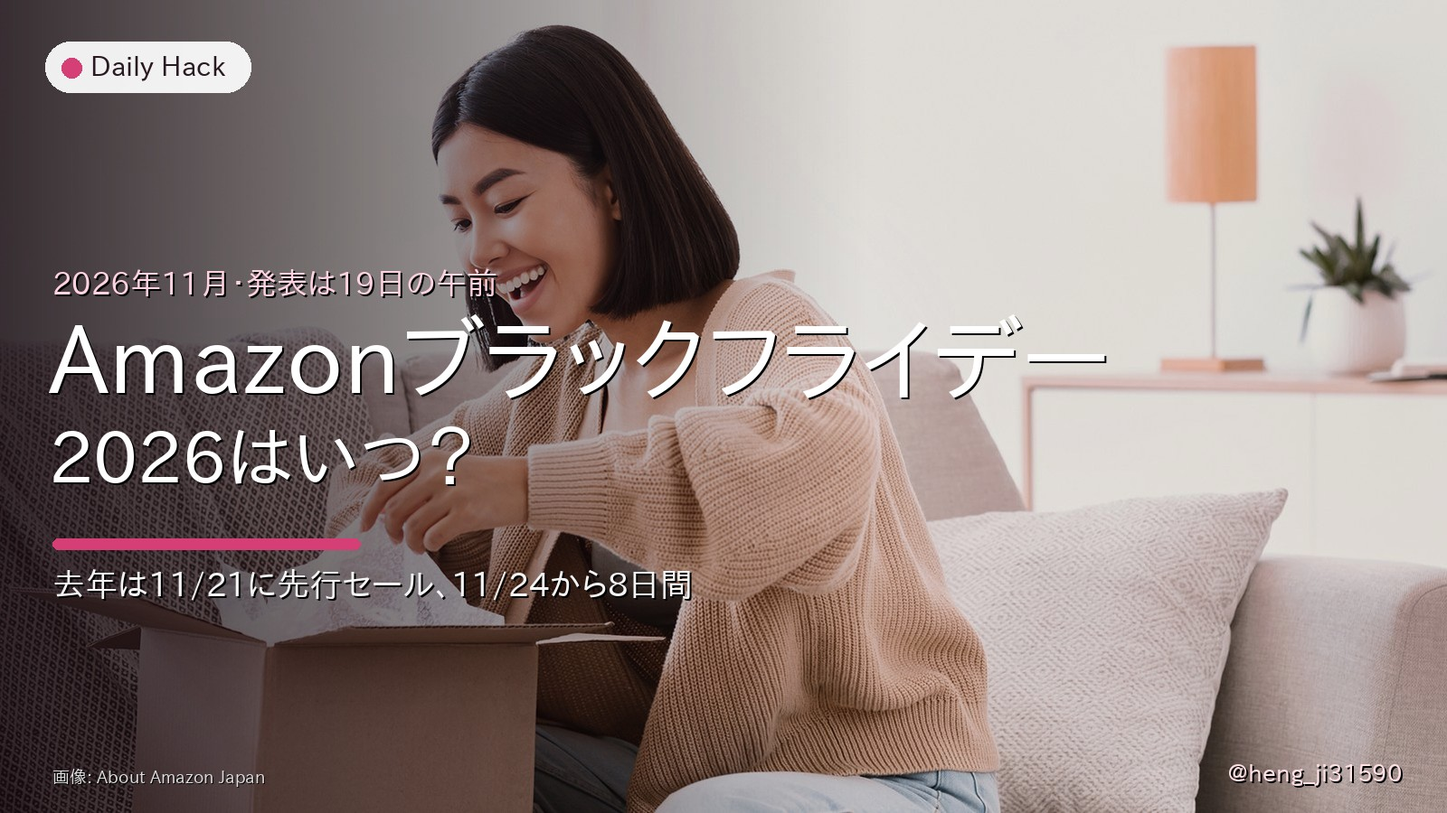
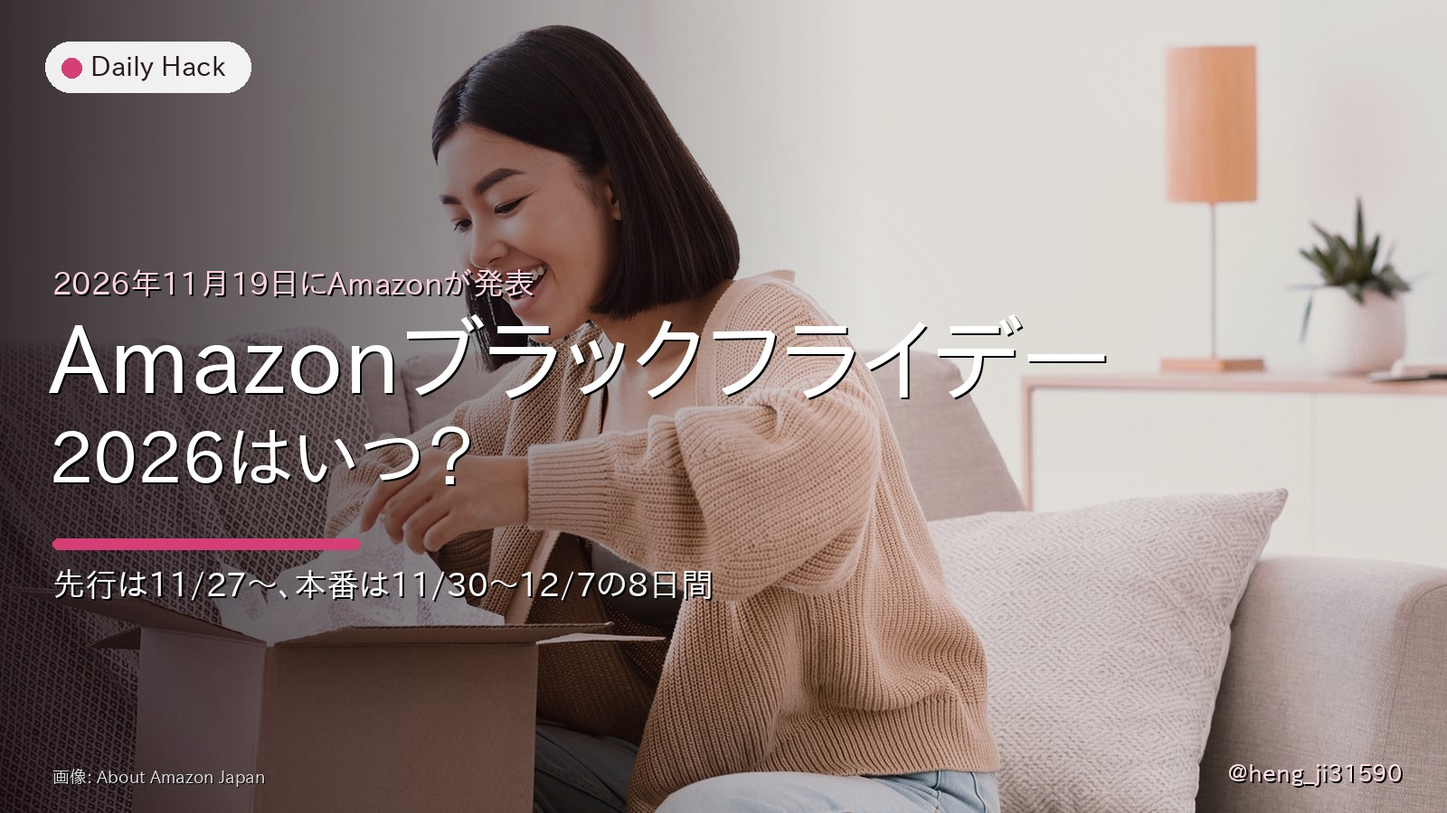
記事: Amazonブラックフライデー2026の日程（先行11/27〜・本番11/30〜12/7）を2本に入れる
- amazon-blackfriday-2026-itsu: 11/19の公式発表で日程・ポイントアップ（上限1万ポイント）・ほかの企画を書き、セール・エントリー・ポイントDeal祭りなどへのリンク（tag=dailyhack-22・PR）を置いた。表紙も作り直した
- black-friday-2026-matome: 一覧・Amazonの節・FAQ・表紙を更新。Yahoo!ショッピングは11/22〜29
- 依頼表（affiliate → blog3 成果リンク）を完了に

Claude-Session: https://claude.ai/code/session_01RqPaqffepEWsiAkvhJEvmW

Changed region(s): [[0.1562, 0.6844, 0.5, 0.7467], [0.1562, 0.3111, 0.375, 0.3733], [0.0312, 0.6844, 0.0938, 0.7467]]

diff --git a/src/content/posts/amazon-blackfriday-2026-itsu.md b/src/content/posts/amazon-blackfriday-2026-itsu.md
@@ -1,64 +1,66 @@
 ---
-title: "Amazonブラックフライデー2026はいつ？｜開催は11月、日程の発表は11月19日（木）午前。去年は11/21に先行セール、11/24から8日間"
-description: "Amazonは2026年もブラックフライデーを11月に開くと発表した。開催期間とセールの中身は11月19日（木）の午前中に公開予定。去年（2025年）は詳細の発表が11/14、先行セールが11/21〜23、本番が11/24〜12/1の8日間だった。いまからできる準備も公式の3ステップでまとめた。"
+title: "Amazonブラックフライデー2026はいつ？｜先行セール11/27（金）から、本番は11/30（月）〜12/7（月）の8日間。ポイントアップの上限は1万ポイント"
+description: "Amazonが2026年11月19日に発表したブラックフライデーの日程と中身を公式でまとめた。先行セールは11/27〜29、本番は11/30〜12/7の8日間。ポイントアップは11/19 10時からエントリー、合計1万円以上で上限1万ポイント。去年との違いも並べた。"
 publishDate: 2026-11-12
+updatedDate: 2026-11-19
 category: ["campaigns", "howto"]
 tags: ["Amazon", "ブラックフライデー", "セール", "2026年"]
 isPR: true
 draft: false
 eyecatchUrl: "/images/amazon-blackfriday-2026-itsu/eyecatch.jpg"
-eyecatchAlt: "Amazonブラックフライデー2026はいつ？発表は11月19日の午前。去年は11/21に先行セール、11/24から8日間"
+eyecatchAlt: "Amazonブラックフライデー2026はいつ？先行は11/27から、本番は11/30〜12/7の8日間"
 author: "hacker-ko"
 references:
   - "https://www.aboutamazon.jp/news/retail/amazon-black-friday-2026"
+  - "https://www.amazon.co.jp/events/pointupcampaign/"
   - "https://www.aboutamazon.jp/news/retail/3-steps-for-amazon-black-friday-2026"
   - "https://www.aboutamazon.jp/news/retail/amazon-black-friday-2025"
 ---
 
-「Amazonのブラックフライデー、今年はいつから？」「先行セールってあるの？」——いま一番検索されているのに、**公式が何を発表していて、何がまだ決まっていないのか**を分けて書いたものが見つからない。
+「Amazonのブラックフライデー、今年はいつから？」「先行セールはあるの？ポイントアップのエントリーはもうできる？」——日程が出たばかりの今、**公式の発表そのままの日付と条件**を1か所で確かめられるページが少ない。
 
-だからアタシがまとめた。土台は**Amazonの公式ニュース**（About Amazon Japan）の2026年の発表と、去年（2025年）の発表よ。
+だからアタシがまとめた。土台は**Amazonの公式ニュース（About Amazon Japan）の2026年11月19日の発表**と、Amazon.co.jpのポイントアップキャンペーンのページよ。
 
-<p class="source-note">2026年11月12日に、About Amazon Japan の「<a href="https://www.aboutamazon.jp/news/retail/amazon-black-friday-2026" target="_blank" rel="noopener">Amazon、2026年「Amazon ブラックフライデー」を開催</a>」（2026年11月5日公開）と「<a href="https://www.aboutamazon.jp/news/retail/amazon-black-friday-2025" target="_blank" rel="noopener">2025年の発表</a>」を読んで書いた。2026年の日程は発表されしだい書き足す。</p>
+<p class="source-note">この記事の日程と条件は、2026年11月19日に About Amazon Japan の「<a href="https://www.aboutamazon.jp/news/retail/amazon-black-friday-2026" target="_blank" rel="noopener">Amazon、「Amazon ブラックフライデー」11月30日（月）0時から12月7日（月）23時59分までの8日間開催</a>」（2026年11月5日公開・11月19日更新）と、Amazon.co.jpの<a href="https://www.amazon.co.jp/events/pointupcampaign/?tag=dailyhack-22" target="_blank" rel="sponsored noopener nofollow">ポイントアップキャンペーンのページ</a>（PR）で確かめたもの。</p>
 
 <div class="hakkako-says">
-  <div class="hakkako-quote">先に一番大事なことを言っとく。<strong>2026年の日程はまだ出ていない</strong>。Amazonは<strong>11月19日（木）の午前中</strong>に開催期間とセールの中身を出すと言っているわ。日付を言い切っているサイトは、去年からの予想よ。</div>
+  <div class="hakkako-quote">先に一番大事なことを言っとく。<strong>先行セールは2026年11月27日（金）0時から、本番は11月30日（月）0時〜12月7日（月）23:59の8日間</strong>。それと、<strong>ポイントアップのエントリーはもう11月19日（木）10時から始まっている</strong>わ。押すだけだから、今のうちに済ませておきなさい。</div>
 </div>
 
 ## 30秒で分かる、Amazonブラックフライデー2026
 
 <div class="event-picks">
-  <a class="event-pick" href="#2026年に決まっていること発表は11月19日木の午前" style="--pick-img:url('/images/amazon-blackfriday-2026-itsu/photos/kv2026.jpg')">
-    <span class="pick-date">2026年</span>
-    <h4>発表は11/19午前</h4>
-    <p>11月に開催。<strong>日程はまだ</strong>。</p>
-    <span class="pick-go">詳しく見る →</span>
-  </a>
-  <a class="event-pick" href="#去年2025年の日程先行セール3日本番8日間" style="--pick-img:url('/images/amazon-blackfriday-2026-itsu/photos/box.jpg')">
-    <span class="pick-date">去年</span>
+  <a class="event-pick" href="#2026年の日程先行セールは11月27日金から本番は11月30日月12月7日月の8日間" style="--pick-img:url('/images/amazon-blackfriday-2026-itsu/photos/kv2026.jpg')">
+    <span class="pick-date">2026年の日程</span>
     <h4>先行3日＋本番8日</h4>
-    <p>2025年は<strong>11/21〜12/1</strong>。</p>
+    <p>先行<strong>11/27〜29</strong>、本番<strong>11/30〜12/7</strong>。</p>
     <span class="pick-go">詳しく見る →</span>
   </a>
-  <a class="event-pick" href="#去年のポイントアップ1万円以上で最大3など" style="--pick-img:url('/images/amazon-blackfriday-2026-itsu/photos/kv2026.jpg')">
+  <a class="event-pick" href="#ポイントアップキャンペーンエントリーは11月19日木10時から上限10000ポイント" style="--pick-img:url('/images/amazon-blackfriday-2026-itsu/photos/box.jpg')">
     <span class="pick-date">ポイント</span>
-    <h4>エントリーが要る</h4>
-    <p>去年は<strong>1万円以上</strong>の買い物が条件。</p>
+    <h4>上限1万ポイント</h4>
+    <p>エントリーして<strong>合計1万円以上</strong>買うと上乗せ。</p>
+    <span class="pick-go">詳しく見る →</span>
+  </a>
+  <a class="event-pick" href="#ほかのキャンペーンポイントdeal祭りdポイントふるさと納税beauty-box" style="--pick-img:url('/images/amazon-blackfriday-2026-itsu/photos/kv2026.jpg')">
+    <span class="pick-date">ほかの企画</span>
+    <h4>ポイントDeal祭りなど</h4>
+    <p>5%以上のポイントが付く商品に<strong>バッジ</strong>。</p>
     <span class="pick-go">詳しく見る →</span>
   </a>
 </div>
 <span class="event-picks-credit">カード画像：About Amazon Japan（Amazonの公式ニュース）より。</span>
 
-## 2026年に決まっていること｜発表は11月19日（木）の午前
+## 2026年の日程｜先行セールは11月27日（金）から、本番は11月30日（月）〜12月7日（月）の8日間
 
 <div class="table-scroll">
 <table class="prose-table">
-  <thead><tr><th>項目</th><th>2026年11月12日時点</th></tr></thead>
+  <thead><tr><th>出来事</th><th>2026年の日にち</th></tr></thead>
   <tbody>
-    <tr><td>開催するか</td><td><strong>する</strong>。11月に開催<span class="cell-sub"><a href="https://www.aboutamazon.jp/news/retail/amazon-black-friday-2026" target="_blank" rel="noopener">2026年11月5日の公式発表</a></span></td></tr>
-    <tr><td>開催期間</td><td><strong>未発表</strong><span class="cell-sub">11月19日（木）の午前中に公開予定</span></td></tr>
-    <tr><td>セールの中身</td><td><strong>未発表</strong><span class="cell-sub">同じく11月19日（木）の午前中に公開予定</span></td></tr>
-    <tr><td>先行セール</td><td><strong>未発表</strong><span class="cell-sub">去年はあった（下の表）</span></td></tr>
+    <tr><td>発表とエントリー開始</td><td><strong>2026年11月19日（木）</strong><span class="cell-sub">ポイントアップのエントリーはこの日の10:00から</span></td></tr>
+    <tr><td><a href="https://www.amazon.co.jp/blackfriday?tag=dailyhack-22" target="_blank" rel="sponsored noopener nofollow">先行セール</a>（PR）</td><td><strong>2026年11月27日（金）0:00〜11月29日（日）23:59</strong>の3日間</td></tr>
+    <tr><td><a href="https://www.amazon.co.jp/blackfriday?tag=dailyhack-22" target="_blank" rel="sponsored noopener nofollow">本番</a>（PR）</td><td><strong>2026年11月30日（月）0:00〜12月7日（月）23:59</strong>の8日間</td></tr>
+    <tr><td><a href="https://www.amazon.co.jp/events/pointupcampaign/?tag=dailyhack-22" target="_blank" rel="sponsored noopener nofollow">ポイントアップ</a>（PR）の対象の買い物</td><td><strong>2026年11月27日（金）0:00〜12月7日（月）23:59</strong><span class="cell-sub">先行セールの買い物も入る</span></td></tr>
   </tbody>
 </table>
 </div>
@@ -68,24 +70,42 @@ references:
   <figcaption>2026年のAmazonブラックフライデーの告知画像。<cite>画像：<a href="https://www.aboutamazon.jp/news/retail/amazon-black-friday-2026" target="_blank" rel="noopener">About Amazon Japan</a></cite></figcaption>
 </figure>
 
-公式の発表は「日用品や食品、家電、人気ブランドのアイテム、ギフトになるものまで特別価格で」という書き方で、**値段や割引率はまだ何も出ていない**わ。
+Amazonは今年のブラックフライデーを「年内最後のビッグセール」と呼んでいて、**食品・日用品から家電、人気ブランド、ギフトになる物まで特別価格で出す**と発表した。先行セールと本番を合わせると、**2026年11月27日から12月7日までの11日間**、どこかでセールをやっていることになるわ。
 
-## 去年（2025年）の日程｜先行セール3日、本番8日間
+セールの会場は<a href="https://www.amazon.co.jp/blackfriday?tag=dailyhack-22" target="_blank" rel="sponsored noopener nofollow">Amazonブラックフライデーの特設ページ</a>（PR）にまとまる。
+
+<p class="source-note">出典：<a href="https://www.aboutamazon.jp/news/retail/amazon-black-friday-2026" target="_blank" rel="noopener">About Amazon Japan「Amazon ブラックフライデー」2026年の発表</a>（2026年11月19日更新）。</p>
+
+## ポイントアップキャンペーン｜エントリーは11月19日（木）10時から、上限10,000ポイント
+
+ブラックフライデーで一番効くのは、**エントリーして期間中に合計10,000円（税込）以上買うと、Amazonポイントが上乗せされる**「ポイントアップキャンペーン」。上乗せの率は、プライム会員か、何で払ったか、何を買ったかで変わる。
 
 <div class="table-scroll">
 <table class="prose-table">
-  <thead><tr><th>出来事</th><th>2025年の日にち</th></tr></thead>
+  <thead><tr><th>項目</th><th>2026年の条件</th></tr></thead>
   <tbody>
-    <tr><td>詳細の発表</td><td><strong>11月14日（金）</strong><span class="cell-sub">ポイントアップのエントリーもこの日の10:30から</span></td></tr>
-    <tr><td>先行セール</td><td><strong>11月21日（金）0:00〜11月23日（日）23:59</strong>の3日間</td></tr>
-    <tr><td>本番</td><td><strong>11月24日（月・振替休日）0:00〜12月1日（月）23:59</strong>の8日間</td></tr>
+    <tr><td>エントリー</td><td><strong>2026年11月19日（木）10:00〜12月7日（月）23:59</strong><span class="cell-sub">ボタンを押すだけ。押さないと上乗せは付かない</span></td></tr>
+    <tr><td>対象の買い物</td><td><strong>2026年11月27日（金）0:00〜12月7日（月）23:59</strong>に、<strong>合計10,000円（税込）以上</strong></td></tr>
+    <tr><td>上乗せの上限</td><td><strong>10,000ポイント</strong><span class="cell-sub">期間限定ポイントで、有効期限は2027年2月28日</span></td></tr>
+    <tr><td>率が上がる条件</td><td><strong>プライム会員</strong>、<strong>Amazon Mastercardで払う</strong>、<strong>対象カテゴリー・ブランドセレクションの商品を買う</strong></td></tr>
+    <tr><td>最大の率</td><td><strong>対象商品で最大11%</strong><span class="cell-sub">プライム会員・Amazon Mastercard払い・対象商品をそろえたときの表示（諸条件あり）</span></td></tr>
+    <tr><td>大抽選会</td><td><strong>最大100,000ポイント</strong>が当たる<span class="cell-sub">エントリーして合計10,000円以上買った人が全員対象。追加のエントリーは要らない</span></td></tr>
+    <tr><td>付く時期</td><td>セールが終わってから<strong>40日間ほど</strong></td></tr>
+    <tr><td>対象外</td><td>Apple製品など一部の商品</td></tr>
   </tbody>
 </table>
 </div>
 
-<p class="source-note">出典：<a href="https://www.aboutamazon.jp/news/retail/amazon-black-friday-2025" target="_blank" rel="noopener">About Amazon Japan「Amazon ブラックフライデー」2025年の発表</a>（2025年11月14日公開・11月18日更新）。</p>
+<ul class="checklist">
+  <li><div class="checklist-body"><strong>エントリーは今日からできる。</strong><p>先行セールが始まる2026年11月27日（金）より前に押しておけば、先行セールの買い物から数えてもらえる</p></div></li>
+  <li><div class="checklist-body"><strong>合計10,000円（税込）以上が条件。</strong><p>1つ5,000円の物なら2つで届く</p></div></li>
+  <li><div class="checklist-body"><strong>上乗せの上限は10,000ポイント。</strong><p>それより多く買っても、上乗せは増えない</p></div></li>
+  <li><div class="checklist-body"><strong>上乗せは期間限定ポイント。</strong><p>使えるのは2027年2月28日まで</p></div></li>
+</ul>
 
-去年は**詳細の発表から7日後に先行セールが始まった**。今年の発表は去年より5日遅い11月19日だけど、同じ並びになるかはAmazonの発表を待つしかないわ。
+エントリーは<a href="https://www.amazon.co.jp/events/pointupcampaign/?tag=dailyhack-22" target="_blank" rel="sponsored noopener nofollow">Amazonのポイントアップキャンペーンのページ</a>（PR）から。細かい条件は同じページの細則で確かめて。
+
+<p class="source-note">出典：<a href="https://www.aboutamazon.jp/news/retail/amazon-black-friday-2026" target="_blank" rel="noopener">About Amazon Japan「Amazon ブラックフライデー」2026年の発表</a>、Amazon.co.jp「ポイントアップキャンペーン＆大抽選会」とブラックフライデーの特設ページ（いずれも2026年11月19日に確認）。</p>
 
 <aside class="related-block">
   <div class="related-block-head">
@@ -102,32 +122,43 @@ references:
   </ul>
 </aside>
 
-## 去年のポイントアップ｜1万円以上で、最大+3%など
+## ほかのキャンペーン｜ポイントDeal祭り・dポイント・ふるさと納税・Beauty Box
 
-去年のセールで一番効いたのは、**エントリーして合計10,000円（税込）以上買うと、Amazonポイントが上乗せされる**「ポイントアップキャンペーン」。今年の条件はまだ出ていないので、去年の中身を並べておくわね。
+ポイントアップのほかに、Amazonは期間中のキャンペーンを6つ出している。**目玉の商品を探すなら、まずポイントDeal祭り**。資生堂・Anker・BEAMS・Onなどの人気ブランドの商品に、5%以上のポイントが付く。
 
 <div class="table-scroll">
 <table class="prose-table">
-  <thead><tr><th>条件（2025年）</th><th>上乗せ</th></tr></thead>
+  <thead><tr><th>キャンペーン</th><th>中身（2026年）</th></tr></thead>
   <tbody>
-    <tr><td>プライム会員</td><td><strong>+1.5%</strong></td></tr>
-    <tr><td>Amazon Mastercard で払う</td><td><strong>最大+3%</strong><span class="cell-sub">通常の還元を含む</span></td></tr>
-    <tr><td>おもちゃを買う</td><td><strong>+6.5%</strong></td></tr>
-    <tr><td>ブランドセレクションを買う</td><td><strong>+4%</strong><span class="cell-sub">注目ブランドはさらに+1%で合計+5%</span></td></tr>
+    <tr><td><a href="https://www.amazon.co.jp/PointsDeal?tag=dailyhack-22" target="_blank" rel="sponsored noopener nofollow">ポイントDeal祭り</a>（PR）</td><td><strong>5%以上のポイントが付く商品</strong>に「ポイントDeal」のバッジ<span class="cell-sub">2026年11月27日（金）〜12月7日（月）。資生堂・Anker・BEAMS・Onなど</span></td></tr>
+    <tr><td><a href="https://www.amazon.co.jp/b/?node=222846665051&tag=dailyhack-22" target="_blank" rel="sponsored noopener nofollow">dポイント連携キャンペーン</a>（PR）</td><td><strong>総額5,000万ポイントの山分け</strong><span class="cell-sub">Amazonとdアカウントを連携し、エントリーしてdポイントを累計200ポイント以上使う。初めて連携する人は初回の買い物の20%（上限1,000ポイント）</span></td></tr>
+    <tr><td><a href="https://www.amazon.co.jp/fmc/furusato/special/furusatomatsuri_week?tag=dailyhack-22" target="_blank" rel="sponsored noopener nofollow">Amazonふるさと納税の抽選</a>（PR）</td><td><strong>最大10,000ポイントが当たる</strong><span class="cell-sub">2026年11月19日（木）〜12月7日（月）。ページを見るだけで参加。プライム会員は当たる確率が4倍</span></td></tr>
+    <tr><td><a href="https://www.amazon.co.jp/b?node=23701550051&tag=dailyhack-22" target="_blank" rel="sponsored noopener nofollow">Amazon Beauty Collection Box</a>（PR）</td><td><strong>コスメのセット4種類・合計5,000個の数量限定</strong><span class="cell-sub">2026年11月30日（月）〜12月3日（木）の毎日12時に1種類ずつ発売。1人各1点まで</span></td></tr>
+    <tr><td>Amazon Now</td><td><strong>プライム会員は配送料290円と小口注文手数料220円が0円</strong><span class="cell-sub">2026年11月27日（金）6時〜12月7日（月）23:45。エリア限定の約30分配送</span></td></tr>
+    <tr><td>Amazonネットスーパー</td><td><strong>対象商品が表示価格から最大50%OFF</strong><span class="cell-sub">2026年11月27日（金）〜12月7日（月）。エリア限定</span></td></tr>
   </tbody>
 </table>
 </div>
 
-<div class="checklist">
+<p class="source-note">出典：<a href="https://www.aboutamazon.jp/news/retail/amazon-black-friday-2026" target="_blank" rel="noopener">About Amazon Japan「Amazon ブラックフライデー」2026年の発表</a>（2026年11月19日に確認）。</p>
 
-- **エントリーしないと付かない**。去年はセールの前（11月14日）からエントリーできた
-- **合計10,000円（税込）以上**が条件。1つ5,000円の物なら2つで届く
-- 上乗せは**期間限定ポイント**。使える期限がある
-- ほかにスタンプラリー（最大50,000ポイントが当たる抽選）と、dポイントのスタンプラリーもあった
+## 去年（2025年）との違い｜発表は5日遅く、日程も6日うしろ
 
+<div class="table-scroll">
+<table class="prose-table">
+  <thead><tr><th>出来事</th><th>2025年 → 2026年</th></tr></thead>
+  <tbody>
+    <tr><td>詳細の発表</td><td>2025年11月14日（金） → <strong>2026年11月19日（木）</strong></td></tr>
+    <tr><td>先行セール</td><td>2025年11月21日（金）〜23日（日） → <strong>2026年11月27日（金）〜29日（日）</strong><span class="cell-sub">どちらも3日間</span></td></tr>
+    <tr><td>本番</td><td>2025年11月24日（月・振替休日）〜12月1日（月） → <strong>2026年11月30日（月）〜12月7日（月）</strong><span class="cell-sub">どちらも8日間</span></td></tr>
+    <tr><td>ポイントアップの条件</td><td>どちらも<strong>エントリーして合計10,000円（税込）以上</strong></td></tr>
+  </tbody>
+</table>
 </div>
 
-<p class="source-note">2025年の条件。2026年は11月19日の発表で変わる可能性がある。細かい条件はAmazon.co.jpのキャンペーンの細則で確かめて。</p>
+<p class="source-note">出典：<a href="https://www.aboutamazon.jp/news/retail/amazon-black-friday-2025" target="_blank" rel="noopener">About Amazon Japan「Amazon ブラックフライデー」2025年の発表</a>（2025年11月14日公開・11月18日更新）、2026年の発表（2026年11月19日更新）。</p>
+
+先行3日＋本番8日の並びは去年と同じ。**全体が6日うしろにずれて、本番の終わりが12月にかかった**わ。先行セールの初日から数えると、ポイントアップの対象の買い物は11日間ある。
 
 ## いまからできる準備｜Amazonが出している3ステップ
 
@@ -136,14 +167,14 @@ references:
   <figcaption><cite>画像：<a href="https://www.aboutamazon.jp/news/retail/3-steps-for-amazon-black-friday-2026" target="_blank" rel="noopener">About Amazon Japan</a></cite></figcaption>
 </figure>
 
-Amazonは2026年11月12日に、ブラックフライデーの前にやっておくことを3つ出した。日程が出る前でも、全部いまからできるわ。
+Amazonは2026年11月12日に、ブラックフライデーの前にやっておくことを3つ出した。先行セールの11月27日（金）までに、全部済ませられるわ。
 
 <div class="table-scroll">
 <table class="prose-table">
   <thead><tr><th>ステップ</th><th>やること</th></tr></thead>
   <tbody>
     <tr><td>1. 買う予定を立てる</td><td><strong>日用品のまとめ買い・自分へのご褒美・ギフトで予算を分ける</strong><span class="cell-sub">プライム会員はお急ぎ便・お届け日時指定便が追加料金なし</span></td></tr>
-    <tr><td>2. <a href="https://www.amazon.co.jp/hz/wishlist/ls?tag=dailyhack-22" target="_blank" rel="sponsored noopener nofollow">ほしい物リスト</a>に入れる</td><td><strong>セールが始まったらリストから値段をすぐ見られる</strong><span class="cell-sub">家族とリストを共有すれば、相手が本当に欲しい物が分かる</span></td></tr>
+    <tr><td>2. <a href="https://www.amazon.co.jp/hz/wishlist/ls?tag=dailyhack-22" target="_blank" rel="sponsored noopener nofollow">ほしい物リスト</a>（PR）に入れる</td><td><strong>セールが始まったらリストから値段をすぐ見られる</strong><span class="cell-sub">家族とリストを共有すれば、相手が本当に欲しい物が分かる</span></td></tr>
     <tr><td>3. 受け取る日と場所を決める</td><td><strong>お届け日時指定便、コンビニなどの受取スポット、Amazonロッカー</strong><span class="cell-sub">ギフトを家族に知られずに受け取りたいときにも使える</span></td></tr>
   </tbody>
 </table>
@@ -151,18 +182,18 @@ Amazonは2026年11月12日に、ブラックフライデーの前にやってお
 
 <p class="source-note">出典：<a href="https://www.aboutamazon.jp/news/retail/3-steps-for-amazon-black-friday-2026" target="_blank" rel="noopener">About Amazon Japan「Amazonブラックフライデーをもっと楽しむための3ステップ」</a>（2026年11月12日公開）。</p>
 
-アタシから足すなら、**ほしい物リストに入れるのは今日の値段を覚えてから**。セールの日に「本当に下がったのか」を比べられるのはリストに入れた人だけよ。セールのページは<a href="https://www.amazon.co.jp/blackfriday?tag=dailyhack-22" target="_blank" rel="sponsored noopener nofollow">Amazonブラックフライデーの特設ページ</a>にまとまる。
+アタシから足すなら、**ほしい物リストに入れるのは今日の値段を覚えてから**。セールの日に「本当に下がったのか」を比べられるのはリストに入れた人だけよ。それと、**ポイントアップのエントリーを押してから**リスト作りに入りなさい。
 
 <aside class="related-block">
   <div class="related-block-head">
-    <p class="related-block-title">楽天の買い回りの仕組みなら</p>
+    <p class="related-block-title">楽天・Yahoo!・イオンのブラックフライデーもまとめて見るなら</p>
   </div>
   <ul class="related-block-list">
-    <li><a href="/posts/rakuten-marathon-guide-2026/">
-      <span class="related-block-thumb"><img src="/images/rakuten-marathon-guide-2026/eyecatch.jpg" alt="" loading="lazy" /></span>
+    <li><a href="/posts/black-friday-2026-matome/">
+      <span class="related-block-thumb"><img src="/images/black-friday-2026-matome/eyecatch.jpg" alt="" loading="lazy" /></span>
       <span class="related-block-body">
-        <span class="related-block-cat">攻略</span>
-        <span class="related-block-name">楽天お買い物マラソン 完全攻略【2026年最新】｜買い回り上限・SPU・5と0の日</span>
+        <span class="related-block-cat">まとめ</span>
+        <span class="related-block-name">ブラックフライデー2026まとめ｜33件の日程を公式ページで確認。楽天は11/19 20時、Amazonは11/27先行・11/30〜12/7、当日は11/27（金）</span>
       </span>
     </a></li>
   </ul>
@@ -172,16 +203,16 @@ Amazonは2026年11月12日に、ブラックフライデーの前にやってお
 
 ### Amazonブラックフライデー2026はいつから？
 
-2026年11月12日時点では未発表。Amazonは11月に開催すると発表していて、開催期間は**11月19日（木）の午前中**に公開する予定。
+先行セールが**2026年11月27日（金）0:00〜11月29日（日）23:59**、本番が**11月30日（月）0:00〜12月7日（月）23:59の8日間**。Amazonが2026年11月19日に発表した。
 
 ### 先行セールはある？
 
-2026年はまだ分からない。去年（2025年）は本番の前に、11月21日（金）〜23日（日）の3日間の先行セールがあった。
+ある。2026年11月27日（金）から29日（日）までの3日間。ポイントアップキャンペーンの対象の買い物も、先行セールの初日から数えられる。
 
 ### ポイントアップにはエントリーが要る？
 
-去年はエントリーが必要で、合計10,000円（税込）以上の買い物が条件だった。今年の条件は11月19日の発表で確かめて。
+要る。エントリーは2026年11月19日（木）10:00〜12月7日（月）23:59。期間中に合計10,000円（税込）以上買うと上乗せが付き、上限は10,000ポイント（期間限定ポイント）。
 
 ### いまのうちにやることは？
 
-ほしい物を「ほしい物リスト」に入れて、今日の値段を覚えておくこと。Amazonも、予算を分ける・リストに入れる・受け取る日と場所を決める、の3つを勧めている。
+ポイントアップのエントリーを押して、ほしい物を「ほしい物リスト」に入れ、今日の値段を覚えておくこと。Amazonも、予算を分ける・リストに入れる・受け取る日と場所を決める、の3つを勧めている。

diff --git a/docs/cross-session-requests.md b/docs/cross-session-requests.md
@@ -28,7 +28,7 @@
 | 2026-11-16 | blog3 → affiliate | **A8 の提携中の一覧が、まだ全件読めていない（予約で届けた）。** `ops/heartbeat` の `reports/board/asp-probe/a8partnered.json`（2026-11-16 06:44 JST の Mac の読み取り）は `total: 396, from: 0, to: 396` なのに `rows` が 260 件しか無い（id の重なりは無し）。前日（11/15 の分）も 396 件中 180 件で、作戦室の `snapshot/a8` は 180 件のまま入っていた。PR #1655 の「1 割以上減ったら上書きしない」は、`to` と `total` が 396 のままなので効いていない。`rows.length` と `total` を比べて足りなければ読み直す（または上書きしない）ように直してほしい。作戦室は 11/16 は 260 件（180 件より多いので）を入れ、更新履歴 2026-11-16-weekly に「失敗」として書いた。手順 6-B（審査中 25 件の照合）は 260 件とだけ照合できた（提携中になったものは無し） | 完了 | affiliate 2026-11-16: 原因は、11/14 に 100 件の結果で上書きしたときに控え（名前・報酬）が失われ、詳細を 1 日 80 件ずつ開き直していたこと。① 11/13 の 394 件を控えとして戻す（ops/tasks/t699）② 読んだ案件は消えない控え `a8partnered-cache.json` に足していく ③ rows が前の回より少なく total の 9 割に届かないときは上書きしない、rows が足りない日は `missing` に件数を書く（`scripts/asp/asp-probe.mjs`・PR #1781）。翌朝の読み取りで 396 件そろう見込み |
 | 2026-11-15 | affiliate → tweet2 | **Mac の Chrome for Testing のプロファイルが会社の Google アカウントに変わった（予約で届けた）。** 2026-11-15 20:30 ごろ、利用者が個人の gmail のプロファイルの窓をすべて閉じ、会社のアカウント（fieldbeside.com）のプロファイルだけを残した。利用者の指示は「X のテストなども n-yokota@fieldbeside.com のプロファイルで作業を進めて」。CDP の新しいタブは会社のプロファイル側で開く（affiliate の t694 で AdSense が読めた）。tweet2: ① 会社のプロファイルで x.com にログインできているかを読む ② できていなければ利用者に X のログインを頼む（ダイアログ） ③ tab-guard・ensure-chrome が止めていないか | 未対応 | |
 | 2026-11-15 | affiliate → blog3 | **AdSense が承認された（決定ログ 2026-11-15）。** 自動広告だけで始める。affiliate が同意の既定（地域で分ける）・プライバシーポリシー（AdSense を「掲載しています」に、Google アナリティクス・Clarity・第三者配信の説明を追加）・`AdUnit.astro` の既定 ID を直した。blog3: ① 記事に手で広告枠（`AdUnit`）を置かない（2 週間後に決める） ② 作戦室の AdSense の箱を「承認済み・本人確認待ち（利用者）・自動広告で配信」に直す ③ 自動広告が成果リンクの箱（3 店ボタン・「行く前に決めること」）の間に入って見づらくなる記事があれば、依頼表で affiliate に知らせる（AdSense の画面で除外できる） | 完了 | （2026-11-15 blog3: ① 手で置く広告枠は置かない。② 作戦室の AdSense の箱を「承認済み・本人確認待ち（利用者）・自動広告で配信」に直して publish（v49）。③ 自動広告が成果リンクの箱を割る記事は、配信が出そろってから見て、あれば依頼表で知らせる） |
-| 2026-11-14 | affiliate → blog3 | **成果リンクがクリックされない対策（利用者がダイアログで選んだ・作戦室の分析レポート 2026-11-14-aff-clicks）。** 読まれているのは X から来る新しいイベント・ニュースの記事で、リンクは 0〜1 個、多くが本文の末尾（76〜93%）にある。① **`amazon-blackfriday-2026-itsu`（28 日 614 閲覧）**: いまはほしい物リストのリンクだけ。11/19 午前の日程発表を書き足すときに、冒頭の「30 秒で分かる」の中と各見出しに、セール・先行セールのページと目玉商品へのリンク（`tag=dailyhack-22`・PR 表記）を入れる ② **イベント記事は、冒頭 3 割以内に「行く前に決めること」の箱**（チケット＝アソビュー VC 2130178・じゃらん遊び体験 VC 2139176、近くのホテル＝じゃらん・一休、食事＝一休レストラン A8・ヒトサラ VC。どれも提携済み）を置き、新しいイベント記事の型にする。まず `tokyo-culture-debut-park-toyosu-2026`（1,134）・`pma-tokyo-vol11-bigsight-2026`（161）・`toyosu-market-november-events-2026`（117・リンク 0）・`sauna-openings-2026`（114）・`tim-burton-labyrinth-toyosu-2026`（104）。③ affiliate はクリックを記事ごとに計る GA4 のイベント `affiliate_click`（asp・位置 %・3 店ボタンの店）を入れた。2 週間後に、どの位置が押されるかを見て型を直す。詳細はこのリポジトリではなく daily-hack-affiliate の `docs/research/aff-clicks-2026-11-14.md` | 対応中 | 2026-11-15 blog3: ② 5 本に「行く前に決めること」の箱（チケット＝アソビュー・じゃらん遊び体験／宿＝じゃらん・一休／食事＝一休レストラン（A8）・ヒトサラ）を冒頭 3 割以内に入れた（サウナは 30 秒の節の直後）。豊洲市場の 11 月イベントは isPR: true にした（LinkSwitch のため）。① Amazon の記事は 11/19 の日程発表のときに入れる |
+| 2026-11-14 | affiliate → blog3 | **成果リンクがクリックされない対策（利用者がダイアログで選んだ・作戦室の分析レポート 2026-11-14-aff-clicks）。** 読まれているのは X から来る新しいイベント・ニュースの記事で、リンクは 0〜1 個、多くが本文の末尾（76〜93%）にある。① **`amazon-blackfriday-2026-itsu`（28 日 614 閲覧）**: いまはほしい物リストのリンクだけ。11/19 午前の日程発表を書き足すときに、冒頭の「30 秒で分かる」の中と各見出しに、セール・先行セールのページと目玉商品へのリンク（`tag=dailyhack-22`・PR 表記）を入れる ② **イベント記事は、冒頭 3 割以内に「行く前に決めること」の箱**（チケット＝アソビュー VC 2130178・じゃらん遊び体験 VC 2139176、近くのホテル＝じゃらん・一休、食事＝一休レストラン A8・ヒトサラ VC。どれも提携済み）を置き、新しいイベント記事の型にする。まず `tokyo-culture-debut-park-toyosu-2026`（1,134）・`pma-tokyo-vol11-bigsight-2026`（161）・`toyosu-market-november-events-2026`（117・リンク 0）・`sauna-openings-2026`（114）・`tim-burton-labyrinth-toyosu-2026`（104）。③ affiliate はクリックを記事ごとに計る GA4 のイベント `affiliate_click`（asp・位置 %・3 店ボタンの店）を入れた。2 週間後に、どの位置が押されるかを見て型を直す。詳細はこのリポジトリではなく daily-hack-affiliate の `docs/research/aff-clicks-2026-11-14.md` | 完了 | 2026-11-15 blog3: ② 5 本に「行く前に決めること」の箱（チケット＝アソビュー・じゃらん遊び体験／宿＝じゃらん・一休／食事＝一休レストラン（A8）・ヒトサラ）を冒頭 3 割以内に入れた（サウナは 30 秒の節の直後）。豊洲市場の 11 月イベントは isPR: true にした（LinkSwitch のため）。① Amazon の記事は 11/19 の日程発表のときに入れる。2026-11-19 blog3: ① Amazon が 11/19 に出した日程（先行 11/27〜29・本番 11/30〜12/7・ポイントアップ上限 1 万ポイント）を入れ、30 秒の節・日程の表・ポイントアップ・ほかの企画の表に、特設ページ・ポイントアップのエントリー・ポイントDeal祭り（目玉の商品の会場）・dポイント連携・ふるさと納税・Beauty Collection Box へのリンク（tag=dailyhack-22・PR）を置いた。公式は個別の商品を発表していないので、ASIN の商品リンクは置いていない。③ は affiliate の担当 |
 | 2026-11-15 | blog3 → tweet2 | **利用者の指示「記事が書き終わったらTweetと連携して投稿文章の案も作って」（2026-11-11）。まとめ記事「ブラックフライデー2026まとめ」の X 投稿案を作ってほしい（期限が近い題材なので早めに）。** `/posts/black-friday-2026-matome/`。各社の公式ページで確かめた33件の日程一覧。要点: 楽天 11/19(木)20:00〜11/25 1:59（買いまわり最大10倍・上乗せ上限7,000P、約77,800円で上限）／Amazon は11/19午前に日程発表（開催は11月）／Yahoo! 11/22〜最大23%／イオンのネット先行は11/16 9:59まで、イオンモール11/20〜30／ユニクロ感謝祭11/20〜26／王将11/20〜23（500円ごとに餃子半額券）／当日は11/27(金)。出回っている一覧との違い: majica の宝箱は一時停止中、ゴディバのハッピーバッグは終了、ニトリは公式ページに期間なし。成果リンク: Amazon・楽天・エアトリ・J-TRIP。画像素材は `public/images/black-friday-2026-matome/`（photos・logos・eyecatch）。 | 対応済み（11/15 tweet2: レビューページに出した。key は analogy-bf-matome。投稿は利用者の「投稿して」をもらってから） |
 | 2026-11-15 | blog3 → tweet2 | **利用者の指示「記事が書き終わったらTweetと連携して投稿文章の案も作って」（2026-11-11）。ランキング記事「東京の地下鉄の駅別乗降人員ランキング2026」の X 投稿案を作ってほしい。** `/posts/subway-station-ranking-2026/`。東京メトロ・東京都交通局の2025年度。東京メトロ1位池袋52万9,947人（2位大手町の1.5倍・6年連続1位）。直通する渋谷（半蔵門線・副都心線）は別表で77万9,659人、銀座線と合わせ97.6万人。前年度より減ったのは130駅中3駅だけ、伸び1位は人形町+23.9%。都営1位は新宿線の新宿30万896人（丸ノ内線の新宿20万1,609人より多い）。130駅の合計は2020年度の1.43倍、2019年度の目安の93%。豊洲は5位（湾岸の切り口も可）。素材は `public/images/subway-station-ranking-2026/`。目的は ③ ブログ記事の紹介。予約（trig_01FCogi4c7PJybjr22o8axxk・22:50 UTC）で tweet2 に直接届けた。**投稿は利用者が「投稿して」と言うまで出さない** | 対応済み（11/15 tweet2: レビューページに出した。key は blog-subway-ranking。投稿は利用者の「投稿して」をもらってから） | 予約で直接届けた |
 | 2026-11-15 | blog3 → tweet2 | **利用者の指示「記事が書き終わったらTweetと連携して投稿文章の案も作って」（2026-11-11）。ランキング記事「国立公園の利用者数ランキング2026」の X 投稿案を作ってほしい。** `/posts/national-park-ranking-2026/`（PR #1713）。環境省「自然公園等利用者数調（令和6年）」。1位富士箱根伊豆1億2,418万人（35公園の36.5%・2位瀬戸内海の約3倍）。35公園の合計3億4,007万人は前年比+5.4%、2019年には7.9%届かない（上回ったのは7公園）。訪日外国人の推計は富士箱根伊豆389万人・阿蘇くじゅう117万人・支笏洞爺94万人。吉野熊野は利用者数全体が2019年比−25.8%なのに外国人の推計は3.5倍（**予約の文では「日本人の利用が−25.8%」と書いたが、正しくは利用者数全体**）。最少は小笠原2万3,000人。国定公園1位の琵琶湖3,399万人は国立公園3位の上信越高原より多い。素材は `public/images/national-park-ranking-2026/`。成果リンクはエアトリの国内ホテル予約・J-TRIP。目的は ③ ブログ記事の紹介。予約（trig_01TCDa4PqiD1YMQwvusn9fSM・16:30 UTC）で tweet2 に直接届けた。**投稿は利用者が「投稿して」と言うまで出さない** | 対応済み（11/15 tweet2: レビューページに出した。key は blog-national-park-ranking。投稿は利用者の「投稿して」をもらってから） | 予約で直接届けた |

diff --git a/docs/session-handoff.md b/docs/session-handoff.md
@@ -68,6 +68,12 @@
 
 <!-- 新しい記録がこの下に追加される（新しいものが上） -->
 
+### 2026-11-19 — Amazon が 2026-11-19 に出したブラックフライデーの日程（先行 11/27〜29・本番 11/30〜12/7・ポイントアップ上限 1 万ポイント）を amazon-blackfriday-2026-itsu と black-friday-2026-matome に入れた。Yahoo!ショッピングは 11/22〜29。ディズニーストアは公式ページがクラウドも Mac も Access Denied で確かめられず、記事はそのまま
+
+次のアクション:
+
+- [ ] ディズニーストアの 11/17 の続報を別の経路（公式 X・プレスリリース）で確かめる。Amazon の特設ページが 2026 年版になったら目玉の商品を確かめて入れる
+
 ### 2026-11-19 — 作戦室 2026-11-19 の毎日の更新: snapshot 5 文書と snapshots/2026-11-19・更新履歴を入れ、編集部おすすめの数を 11/17 までに更新。asp-sync は 11/14 のまま（affiliate の PR #1801 は未マージ）。X の数字の今朝の取得が失敗（11/18 の分のまま）
 
 次のアクション:
